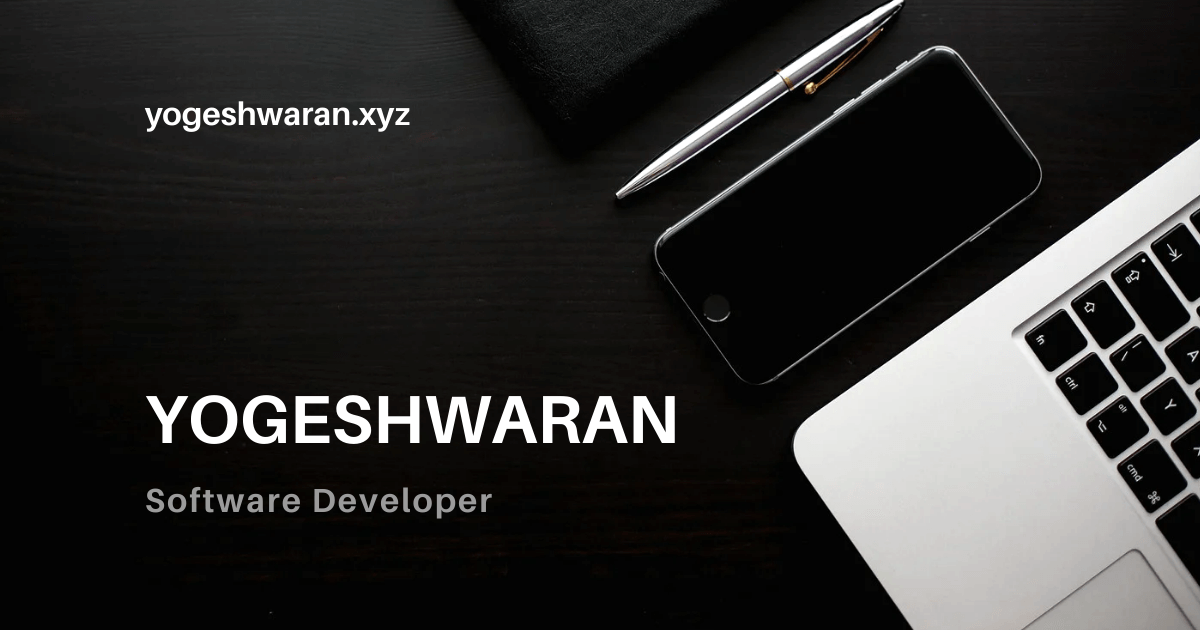
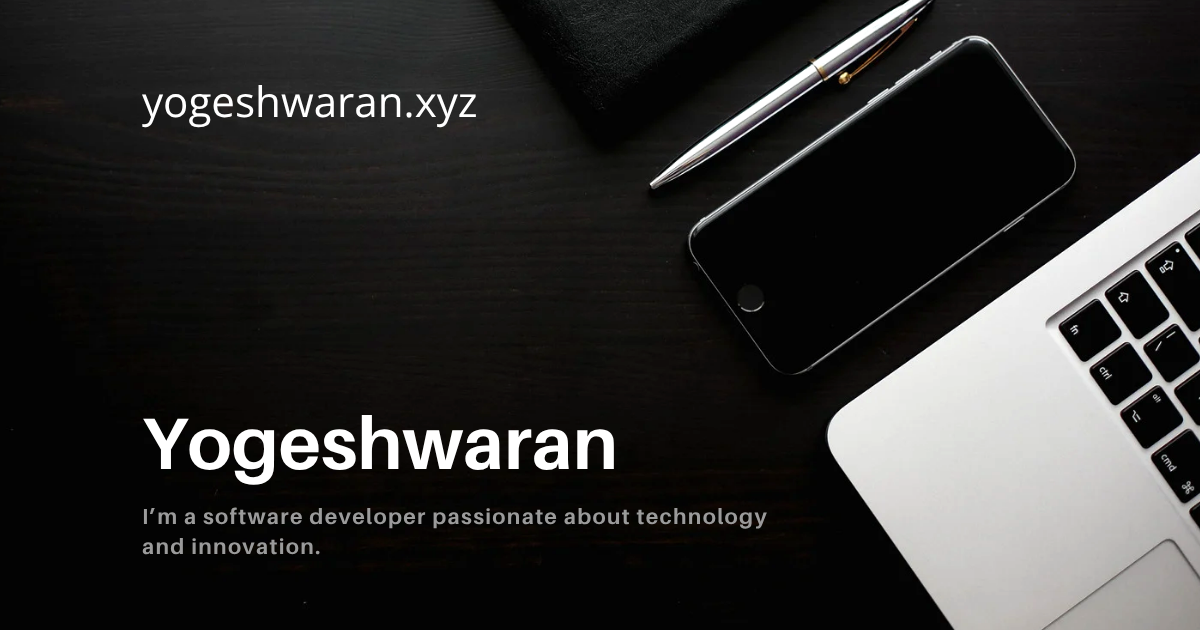
update

diff --git a/src/components/Contact/contact.css b/src/components/Contact/contact.css
@@ -28,7 +28,7 @@
 
 .contact-email {
   text-decoration: none;
-  color: #579bda;
+  color: #007acc;
 }
 
 .contact-email:visited {
@@ -51,14 +51,18 @@
   width: 80%;
   margin: 8% 0;
   padding: 3%;
+  background-color: inherit;
+  border: 1px solid rgba(64, 133, 197, 0.74);
+  color: inherit;
   resize: none;
 }
 
 .contact-button {
   padding: 1px 7px;
   border-radius: 10px;
-  font-size: 12px;
-  border: 1px solid hsla(206, 100%, 50%, 0.74);
+  font-size: 13px;
+  color: inherit;
+  border: 1px solid hsla(206, 100%, 50%, 0.74);  
   background-color: rgba(230, 230, 230, 0.014);
 }
 
@@ -75,9 +79,9 @@
 
 .social-icons {
   position: absolute;
-  left: 0;
+  left: 10px;
   display: flex;
-  gap: 1em;
+  gap: 2em;
 }
 
 .fa-icon{
@@ -91,52 +95,59 @@
 
 .social-insta {
   position: absolute;
-  right: 0;    
+  right: 10px;    
 }
 
 
 
 @media screen and (min-width: 600px){    
+
   .contact-section{
     padding:0 100px;
   }
+
   .contact-header{
     height: 20vh;      
     padding-left: 0;
     padding-top: 5vh;
   }
+
   .contact-content{
     height: 70vh;
     padding: 0;
   }
+
   .contact-text{            
     font-size: 18px;
     height: 50%
   }
+
   .contact-form {
     height: 50%;
     gap: 30px;
     flex-direction: row;
   }
+
   .contact-textarea {
     width: 50%;
     padding: 10px;
   }
+
   .contact-button {
     font-size: 15px;
     padding: 5px 10px;
   }
+
   .contact-footer {    
     bottom: 5vh;
   }
+
   .social-icons {
     gap:40px;
   }
+
   .fa-icon{
     height: 30px;
     width: 30px;
   }
-
-
-
 }

diff --git a/src/components/Projects/Projects.jsx b/src/components/Projects/Projects.jsx
@@ -3,7 +3,7 @@ import IMG1 from "../../assets/ecommerce.png";
 import IMG2 from "../../assets/to_do_list.png";
 import IMG3 from "../../assets/snakegame.png";
 import { Swiper, SwiperSlide } from "swiper/react";
-import { Navigation, Pagination } from "swiper/modules";
+import { Pagination } from "swiper/modules";
 import "swiper/css";
 import "swiper/css/navigation";
 import "swiper/css/pagination";
@@ -32,7 +32,7 @@ function Projects() {
       title: "Snake Game",
       img: IMG3,
       description:
-        "The Snake Game in Java involves guiding a snake to eat food, grow, and avoid collisions. Built with Swing, it features smooth movement, random food generation, and a scoring system.",
+        "The Snake Game in Java involves guiding a snake to eat food, grow, and avoid collisions. Built with Swing, it features random food generation, and a scoring system.",
       github:
         "https://github.com/yogeshwaran99/MiniProjects/tree/main/SnakeGame",
     },
@@ -46,6 +46,7 @@ function Projects() {
           modules={[Pagination]}
           pagination={{ clickable: true }}
           spaceBetween={30}
+          loop={true}
           breakpoints={{
             0: {
               slidesPerView: 1,

diff --git a/src/components/Projects/projects.css b/src/components/Projects/projects.css
@@ -13,7 +13,7 @@
   align-items: center;
 }
 .project-card {  
-  border: 1px dotted rgb(42, 108, 134);
+  border: 1px solid rgba(42, 108, 134, 0.644);
   padding: 20px;
   margin: 15% auto;   
   border-radius: 20px;
@@ -26,23 +26,27 @@
 }
 .project-image {
   border-radius: 10px;
-  border: 1px solid grey;
+  border: 1px solid rgba(63, 97, 189, 0.562);
   width: 90%;
-  height: auto;
+  height: 30%;
 }
 
 .project-description {
   margin: 10px 0;
-  text-align: justify;
+  display: -webkit-box;
+  -webkit-line-clamp: 5;  
+  -webkit-box-orient: vertical;
+  overflow: hidden;  
+  width: 90%;
   padding:0 10px;
-  font-size: 15px;
+  font-size: 14px;
 }
 
 .project-button {
   margin-top: 10px;
   color: white;
   text-decoration: none;
-  font-size: 12px;
+  font-size: 13px;
   padding: 1px 7px;
   border: 1px solid hsla(206, 100%, 50%, 0.685);
   border-radius: 10px;
@@ -52,16 +56,22 @@
 
 
 @media screen and (min-width: 600px){    
+
   .projects-section{
     padding:0 100px;       
   }
+
   .projects-heading{
     height: 15vh;      
     padding-left: 0;
     padding-top: 5vh;
   }
+
   .project-card{
     padding-bottom: 35px;
+    height: auto;
+    gap: 5px;
+    padding: 15px;
   }
 
 }

diff --git a/index.html b/index.html
@@ -4,17 +4,17 @@
     <meta charset="UTF-8" />
     <link rel="icon" type="image" href="/logo.png" />
     <meta name="viewport" content="width=device-width, initial-scale=1.0" />
-    <meta property="og:title" content="Yogeshwaran" />
-    <meta property="og:description" content="I’m a software developer with a love for tech and exploring new ideas." />
+
+    <meta property="og:title" content="Yogeshwaran" />    
     <meta property="og:image" content="https://yogeshwaran.xyz/card.png" />
     <meta property="og:url" content="https://yogeshwaran.xyz" />
     <meta property="og:type" content="website" />
     <meta property="og:image:width" content="1200" />
     <meta property="og:image:height" content="630" />
-    <meta name="twitter:card" content="summary_large_image">
-    <meta name="twitter:title" content="Yogeshwaran | Software Developer">
-    <meta name="twitter:description" content="I’m a software developer with a love for tech and exploring new ideas.">
+
+    <meta name="twitter:card" content="summary_large_image">    
     <meta name="twitter:image" content="https://yogeshwaran.xyz/card.png" />
+
     <title>Yogeshwaran</title>
   </head>
   <body>

diff --git a/src/components/Home/home.css b/src/components/Home/home.css
@@ -12,41 +12,47 @@
 
 .home-heading {
   color: rgb(27, 141, 235);
-  text-align: center;
-  font-size: 2em;
-  letter-spacing: 10px;
+  text-align: center;  
+  font-size: 25px;
+  font-weight: 500;
+  letter-spacing: 2px;
 }
 
 .home-span {
   font-weight: normal;
-  color: rgba(222, 222, 226, 0.959);
-  letter-spacing: 1px;
+  color: rgba(186, 195, 216, 0.973);
+  font-size: 18px;
+  font-weight: 500;
   margin-right: 10px;
 }
 
 .home-subheading {
   color: rgba(222, 222, 226, 0.808);
-  font-size: 14px;
+  font-size: 15px;
   text-align: center;
-
 }
 
 @media screen and (min-width: 600px){     
+
   .home-container{
     align-items: center;
     width: 86%;
     padding: 0% 7%;
   }
+
   .home-heading{
     font-size: 60px;
+    font-weight: 500;
     text-align: center;
   }
-  .home-span{
-    font-size: 40px;
-  }
-  .home-subheading{
-    font-size: 18px;
-    text-align: center;
 
+  .home-span{
+    font-size: 50px;
+    font-weight: 500;
+  }
+
+  .home-subheading{
+    font-size: 19px;
+    text-align: center;
   }
 }

diff --git a/src/components/Home/Home.jsx b/src/components/Home/Home.jsx
@@ -9,9 +9,9 @@ function Home() {
           <span className="home-span">Hello, I'm </span>Yogeshwaran
         </h1>
         <h3 className="home-subheading">
-          Software developer from Chennai, India, with a strong interest in Java
-          and experience across frontend and backend development, focused on
-          continuous learning and writing clean, professional code.
+          Software developer from Chennai, India, with a strong interest in
+          Java, focused on continuous learning and writing clean, professional
+          code.
         </h3>
       </div>
     </section>

diff --git a/src/components/Contact/Contact.jsx b/src/components/Contact/Contact.jsx
@@ -59,7 +59,7 @@ const Contact = () => {
               className="contact-textarea"
             />
             <button type="submit" className="contact-button">
-              Send
+              send
             </button>
           </form>
         </div>

diff --git a/src/index.css b/src/index.css
@@ -3,7 +3,7 @@
   line-height: 1.5;
   font-weight: 400;
   color-scheme: light dark;
-  color: rgba(229, 233, 241, 0.952);
+  color: rgba(229, 233, 241, 0.863);
   background-color: black;
   font-synthesis: none;
   text-rendering: optimizeLegibility;

diff --git a/src/components/Navbar/navbar.css b/src/components/Navbar/navbar.css
@@ -44,7 +44,7 @@
 @media screen and (min-width: 600px) {
 
 .nav-section {    
-  top: 0;
+  top: 20px;
   height: 10vh;            
 }
 
@@ -57,6 +57,7 @@
 .nav-link{
   margin-left: 1vw;
   font-size: 20px;
+  font-weight: 600;
 }
 
 .nav-logo {

diff --git a/src/components/About/About.jsx b/src/components/About/About.jsx
@@ -49,7 +49,7 @@ function About() {
             rel="noopener noreferrer"
             className="highlight"
           >
-            LeetCode
+            Leetcode
           </a>{" "}
           and{" "}
           <a

diff --git a/src/components/About/about.css b/src/components/About/about.css
@@ -19,7 +19,7 @@
 }
 
 .highlight {
-  color: #007acc;
+  color: #007accee;
 }
 
 
